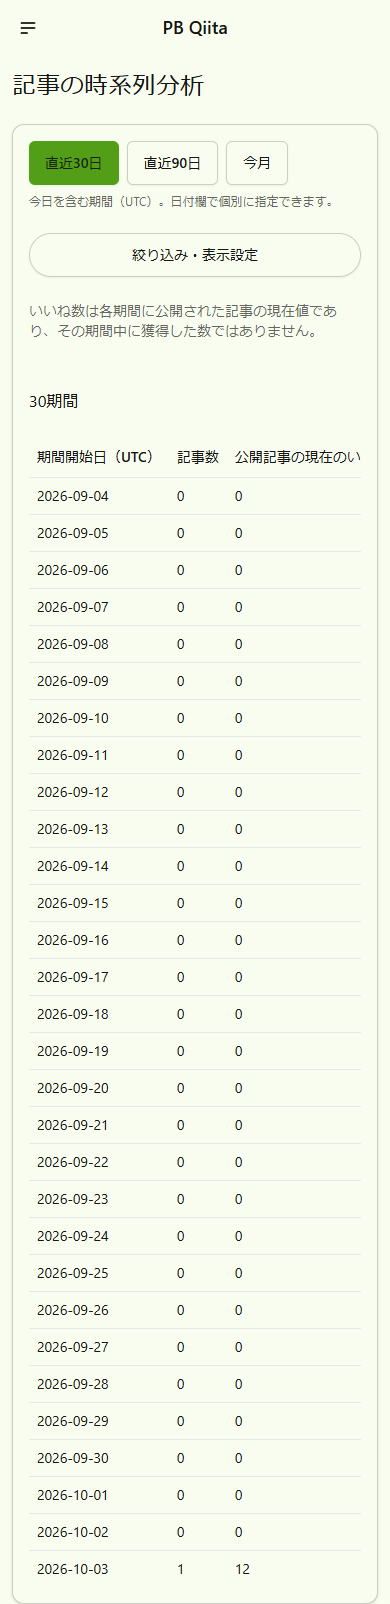
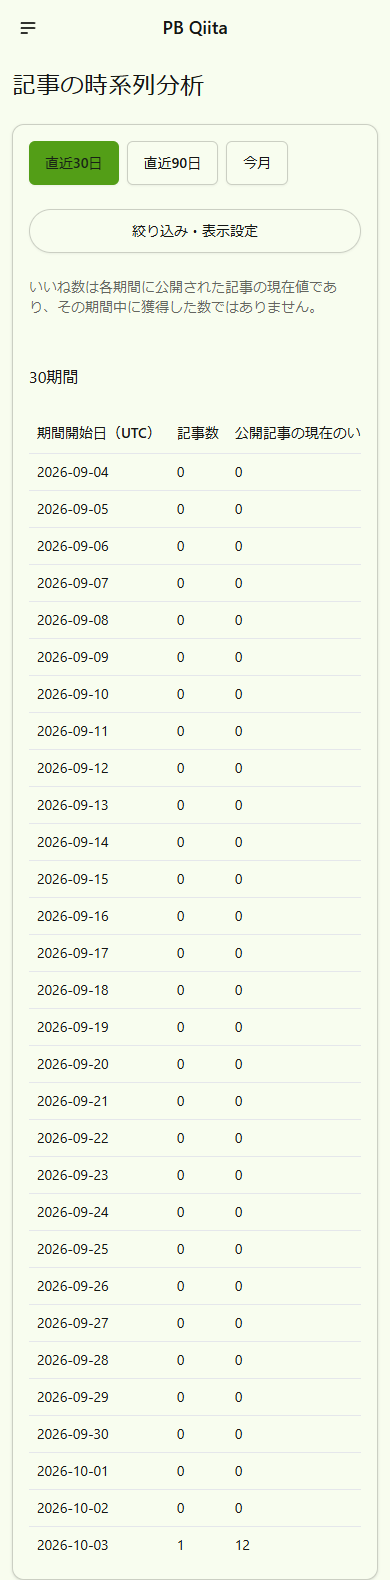
ui: remove period shortcut description

diff --git a/src/pages/period-shortcuts.tsx b/src/pages/period-shortcuts.tsx
@@ -8,8 +8,6 @@ import {
 import {
   periodGroupClass,
   periodButtonClass,
-  periodNoteClass,
-  periodNote,
 } from "@/client/period-shortcuts-presentation";
 import { buttonVariants } from "@/client/ui/classes";
 export const NativePeriodShortcuts: FC<{
@@ -40,7 +38,6 @@ export const NativePeriodShortcuts: FC<{
             </a>
           );
         })}
-      <p class={periodNoteClass}>{periodNote}</p>
     </fieldset>
   );
 };

diff --git a/src/client/PeriodShortcuts.tsx b/src/client/PeriodShortcuts.tsx
@@ -9,8 +9,6 @@ import {
 import {
   periodGroupClass,
   periodButtonClass,
-  periodNoteClass,
-  periodNote,
 } from "./period-shortcuts-presentation";
 export function PeriodShortcuts({
   range,
@@ -43,7 +41,6 @@ export function PeriodShortcuts({
             </Button>
           );
         })}
-      <p className={periodNoteClass}>{periodNote}</p>
     </fieldset>
   );
 }

diff --git a/src/client/period-shortcuts-presentation.tsx b/src/client/period-shortcuts-presentation.tsx
@@ -1,4 +1,2 @@
 export const periodGroupClass = "flex flex-wrap items-center gap-2";
 export const periodButtonClass = "min-h-11 sm:min-h-9";
-export const periodNoteClass = "w-full text-xs text-muted-foreground";
-export const periodNote = "今日を含む期間（UTC）。日付欄で個別に指定できます。";
